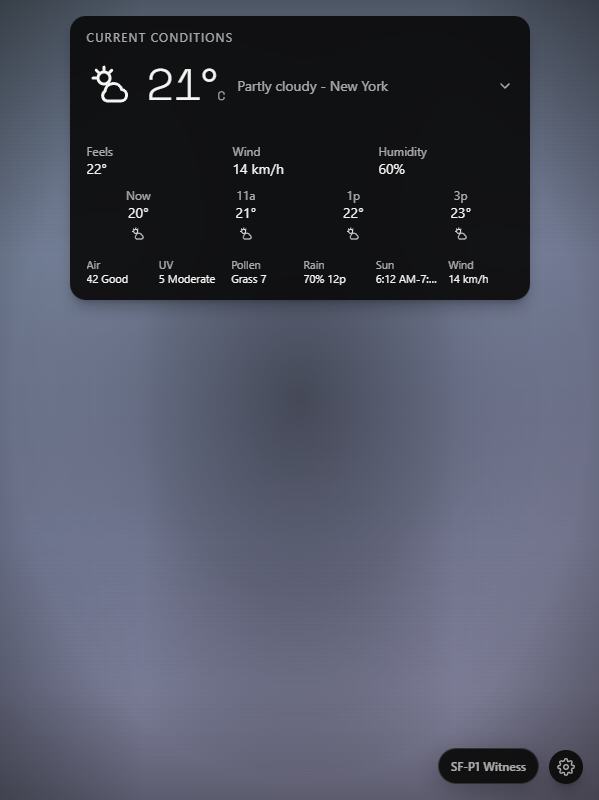
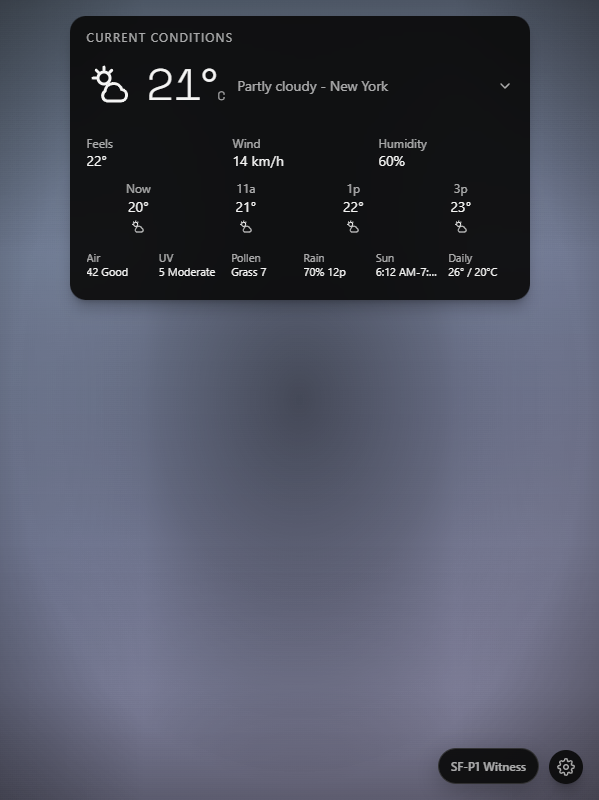
docs: verify sky and glance presentations

diff --git a/docs/superpowers/aurora-2/ROADMAP.md b/docs/superpowers/aurora-2/ROADMAP.md
@@ -206,11 +206,11 @@ The owner-approved authority is [`2026-08-17-aurora-named-layouts-live-canvas-de
 | Addition waves | Verified | Browser-native, Work, and At-a-glance waves are complete. On This Day, Public Holidays, Aurora & Kp, and NWS Weather alerts join the four browser-native widgets and Linear, Sentry, and Todoist under exact public/direct provider, cache-ownership, tier, Settings, privacy, and browser-evidence contracts. Stocks remain deferred. | [`BROWSER-NATIVE-WIDGETS-QA.md`](../reports/BROWSER-NATIVE-WIDGETS-QA.md); [`WORK-CONNECTORS-QA.md`](../reports/WORK-CONNECTORS-QA.md); [`AT-A-GLANCE-ADDITIONS-QA.md`](../reports/AT-A-GLANCE-ADDITIONS-QA.md); [`2026-08-22-aurora-at-a-glance-additions-implementation.md`](../plans/2026-08-22-aurora-at-a-glance-additions-implementation.md) |
 | Two-axis docks | Verified with 5px owner trial | Every top/bottom dock member owns independent safe X/Y coordinates inside a transparent responsive band. The original absent-Y baseline remains immutable evidence for DY-P1. The owner-approved refinement moves the parent bands to 5px from every viewport edge while preserving storage absence, order, containment, and internal legacy margins. Exact 600x800 and 1408x445 Chromium witnesses passed with boot-stable layouts bytes and zero writes or failures. | [`2026-08-22-aurora-two-axis-dock-placement-implementation.md`](../plans/2026-08-22-aurora-two-axis-dock-placement-implementation.md); [`2026-08-22-aurora-two-axis-dock-placement-design.md`](../specs/2026-08-22-aurora-two-axis-dock-placement-design.md); [`TWO-AXIS-DOCKS-QA.md`](../reports/TWO-AXIS-DOCKS-QA.md); [`DOCK-INSET-REFINEMENT-QA.md`](../reports/DOCK-INSET-REFINEMENT-QA.md); `1e9a1af` |
 | Shared widget frames | SF-P1 verified and owner accepted; SF-P2 owner visual gate | Exact Compact 216x132, Standard 320x200, and Full 460x284 frames; authored per-widget compositions; fixed stack footprint; intrinsic stack faces; scalable catalog and admission gate. SF-P2 migrated the remaining 25 Framed identities, and its one fix/rereview cycle is Ready with 189/189 exact-build Chromium captures and no open Critical or Important issue. SF-P3 remains blocked until the owner accepts or refines the catalog. | [`2026-08-22-aurora-shared-widget-frames-and-stack-composition-design.md`](../specs/2026-08-22-aurora-shared-widget-frames-and-stack-composition-design.md); [`2026-08-22-aurora-sf-p1-frame-foundation-reference-pair.md`](../plans/2026-08-22-aurora-sf-p1-frame-foundation-reference-pair.md); [`2026-08-23-aurora-sf-p2-framed-catalog-migration.md`](../plans/2026-08-23-aurora-sf-p2-framed-catalog-migration.md); [`SHARED-FRAMES-SF-P1-QA.md`](../reports/SHARED-FRAMES-SF-P1-QA.md); [`SHARED-FRAMES-SF-P2-QA.md`](../reports/SHARED-FRAMES-SF-P2-QA.md) |
-| Complete widget redesign | Production active, Task 4 verified | The owner-approved 34-target catalog governs all 36 source identities. Unified Calendar now composes agenda, complete Month, and optional Public Holidays through explicit per-layout consolidation with exact tier geometry and separate source authorities. Weather and sky compositions are the current packet. | [`2026-08-23-aurora-complete-widget-redesign-production.md`](../plans/2026-08-23-aurora-complete-widget-redesign-production.md); [`2026-08-23-aurora-unified-calendar-widget-design.md`](../specs/2026-08-23-aurora-unified-calendar-widget-design.md); [`CATALOG.md`](../catalog/widget-redesign/v1/CATALOG.md) |
+| Complete widget redesign | Production active, Task 5 verified | The owner-approved 34-target catalog governs all 36 source identities. Unified Calendar is consolidated explicitly, and Weather, Sun, Moon, On This Day, and Aurora & Kp now expose their approved information and visualization signatures without changing data ownership. Work and service connectors are the current packet. | [`2026-08-23-aurora-complete-widget-redesign-production.md`](../plans/2026-08-23-aurora-complete-widget-redesign-production.md); [`2026-08-23-aurora-unified-calendar-widget-design.md`](../specs/2026-08-23-aurora-unified-calendar-widget-design.md); [`CATALOG.md`](../catalog/widget-redesign/v1/CATALOG.md) |
 
 The first approved continuous sequence and DY-P1 are complete. Flow, widget stacks, Weather enrichment, the Expansion platform, browser-native widgets, Work connectors, At-a-glance additions, and two-axis docks are verified. The full redesign catalog is owner approved after Quick Links, Greeting, and Calendar corrections. Production Task 1 has a green focused gate, and the remaining widget-family packets are active. Future catalog candidates remain researched backlog; stocks remain deferred.
 
-- **Weather and sky production window:** Keep Weather, Sun, Moon, On This Day, and Aurora & Kp under their existing cache and retry owners while making each approved tier visibly useful. Weather stays movable to every corner and only its expansion is contained.
+- **Work and service production window:** Author the approved GitHub, GitLab, Jira, Linear, Sentry, Todoist, Vercel, Status, Home Assistant, RSS, and Crypto compositions from existing normalized data. Preserve provider requests, credentials, selections, permissions, cache ownership, and mutations.
 
 ## Program definition of done
 

diff --git a/docs/superpowers/aurora-2/DECISIONS.md b/docs/superpowers/aurora-2/DECISIONS.md
@@ -695,3 +695,12 @@ ADR-lite entries record settled implementation direction without replaying conve
 - **Rejected:** Automatic placement selection; silent boot migration; compressed Compact or Docked month grids; an internal month scrollbar; provider or country copy in the primary face; one merged source cache; view changes that write `layouts`; deleting holiday country or cache when inclusion is off; or any Store action.
 - **Consequence:** Docked and Compact remain agenda-led. Standard owns a labelled Agenda/Month control with a complete 42-cell table and named nearest holiday. Full renders Month and Agenda together. Layout-local view and inclusion live in the Calendar inspector; global week start lives under Calendar settings. Weather and sky compositions are next.
 - **Verification:** Observed RED covered source ordering and deduplication, 42-cell week origins, atomic consolidation, stale rejection, preference-only writes, exact tier faces, inspector authority, and global week start. The focused gate passed 27 files / 757 tests, TypeScript, and diff hygiene. Exact production build `8c8db65c9ee2359e87bf7a9c73c9540ea9c73a34` transformed 253 modules. A measured Chromium pass caught and closed one Full flex/grid containment defect, then proved exact 216x132, 320x200, and 460x284 geometry, 42-cell Standard and Full tables, no internal overflow, unchanged layouts during ordinary view switching, and zero runtime or request failures. The protected checkout and Chrome Web Store remained untouched.
+
+## A2-D079 - Put the complete sky briefing in the selected frame
+
+- **Date:** 2026-08-23
+- **Decision:** Keep Weather, Sun, Moon, On This Day, and Aurora & Kp under their existing data and retry owners while making their selected tier answer its primary question without decorative filler. Full Weather owns visible hourly, environmental, rain, sun, wind, and daily context; its existing disclosure remains the deeper source and alert surface. On This Day uses distinct year markers and a truthful Read more destination. Aurora & Kp makes proportional forecast bars the primary visualization. Sun and Moon retain distinct identities, and Docked remains smaller than Compact.
+- **Reason:** The existing widgets were correct but some approved information stayed hidden behind disclosure or read as an undifferentiated list. The selected frame should provide useful hierarchy at a glance while preserving the background, exact shared geometry, and trusted provider path.
+- **Rejected:** A separate AQI, UV, or pollen widget; replacing Weather's details panel; auto-moving Weather away from corners; an internal framed scrollbar; duplicate request or cache owners; repeating the same year until the On This Day row budget is exhausted; treating Kp as an aurora visibility probability; or any Store action.
+- **Consequence:** Work and service connector compositions are next. Weather request identities, NWS enrichment, cache retry, civil-time behavior, units, location selection, placement, and expansion anchoring remain unchanged. Connector scopes, permissions, credentials, storage schema, protected checkout, and Store authority remain unchanged.
+- **Verification:** Observed RED covered the missing Full Weather briefing, Standard daily context, distinct Sun glyphs, proportional Kp forecast meters, distinct On This Day years, and truthful destination copy. The focused gate passed 19 files / 266 tests plus TypeScript and diff hygiene. Exact production build `7136edc0c2b33abf1c5a578639f3c81f2b77f1c5` transformed 253 modules. The stabilized 36-scenario Chromium matrix covered exact tiers, ready and non-ready states, dark, light, saturated, and bright-pink panels, proportional narrow Full frames, Weather plus On This Day stacks and disclosure, and both location-selection tiers. It recorded 26 audited requests, 7 expected storage-write batches, and zero clipping, internal scrolling, runtime errors, failed requests, or unexpected requests. The protected checkout remained at `eb1354b6a5b041fb6d494655c3dae1862572bc51`; Chrome Web Store state remained untouched.

diff --git a/docs/superpowers/aurora-2/STATUS.md b/docs/superpowers/aurora-2/STATUS.md
@@ -4,8 +4,10 @@
 **Branch:** `feat/aurora-2-observatory`<br>
 **Worktree:** `D:\DEV\Chrome plugin-aurora-2`<br>
 **Current wave:** Complete widget redesign production<br>
-**Last verified packet:** `Production Task 4 Unified Calendar` - 27 focused files / 757 tests, TypeScript, exact 253-module build, and measured Chromium proof for Compact, Standard Month, and Full with zero clipping, internal scrolling, runtime errors, or failed requests<br>
-**Current packet:** Production Task 5, Weather and sky compositions
+**Last verified packet:** `Production Task 5 Weather and sky` - 19 focused files / 266 tests, TypeScript, exact 253-module build, and 36-scenario real Chromium proof with zero clipping, internal scrolling, runtime errors, failed requests, or unexpected requests<br>
+**Current packet:** Production Task 6, work and service connector compositions
+
+- **Complete widget redesign production Task 5 (2026-08-23, VERIFIED):** Weather, Sun, Moon, On This Day, and Aurora & Kp retain their existing cache, retry, civil-time, permission, and provider owners while gaining their approved information signatures. Full Weather now exposes hourly conditions plus Air, UV, Pollen, Rain, Sun, and Daily context without requiring disclosure; Standard retains current conditions plus High/Low context, and Compact and Docked remain concise. Sun uses distinct rise and set glyphs. Aurora & Kp uses proportional forecast bars while preserving explicit stale copy. On This Day keeps one heading and date, selects distinct year markers within its row budget, and labels the trusted destination Read more on Wikipedia. Observed RED covered each missing signature. The focused production gate passed 19 files / 266 tests plus TypeScript and diff hygiene. Exact build `7136edc0c2b33abf1c5a578639f3c81f2b77f1c5` transformed 253 modules. The real Chromium matrix found and closed the 10px metadata floor, stale and narrow Full containment, a flex-shrunk Daily row, and a location-selection harness allowlist gap. The final 36/36 pass covered exact tiers, states, four panel colors, proportional narrow frames, Weather plus On This Day stacks, Weather disclosure, and location selection with 26 audited requests, 7 expected storage-write batches, and zero runtime, failed, or unexpected requests. The protected checkout and Chrome Web Store remain untouched.
 
 - **Complete widget redesign production Task 4 (2026-08-23, VERIFIED):** Calendar, Month, and Public Holidays now consolidate explicitly into canonical Calendar per named layout. Legacy placements remain unchanged until the user chooses a surviving placement and Save; Later and stale ownership write nothing, while Save atomically updates `layouts` and its companion preference. Docked and Compact are agenda-led, Standard owns the labelled Agenda/Month switch and complete 42-cell month, and Full renders roomy Month plus Agenda regions. The Standard month header and view control share the reclaimed top row, with the nearest holiday named in a separated footer below the grid. Layout-local Default view and Include public holidays live in the inspector; global week start lives under Calendar settings. The focused gate passed 27 files / 757 tests plus TypeScript and diff hygiene. Exact build `8c8db65c9ee2359e87bf7a9c73c9540ea9c73a34` transformed 253 modules. The bounded real-browser pass caught and fixed Full's flex-over-grid containment defect, then measured exact 216x132, 320x200, and 460x284 faces, 42 Standard and Full cells, zero overflow, presentation-only preference writes, and zero runtime or request failures. The production manifest, protected checkout, and Chrome Web Store state remain unchanged.
 

diff --git a/docs/superpowers/plans/2026-08-23-aurora-complete-widget-redesign-production.md b/docs/superpowers/plans/2026-08-23-aurora-complete-widget-redesign-production.md
@@ -397,19 +397,19 @@ git commit -m "feat: unify Calendar presentations"
 - Consumes: Existing caches, retry ownership, weather details panel, and Task 1 presentation context.
 - Produces: Approved visualization-led sky and glance faces.
 
-- [ ] **Step 1: Add RED tests for signature scale and row budgets**
+- [x] **Step 1: Add RED tests for signature scale and row budgets**
 
 Assert Full Weather contains hourly forecast, daily forecast, AQI, pollen, UV, precipitation timing, sun, and wind; Standard contains current plus daily context; Compact contains current conditions; Docked retains the full temperature scale in one 44px line. Assert On This Day renders its heading once, date once, bounded distinct years, and a truthful Read more action.
 
-- [ ] **Step 2: Run the five focused test files and observe RED**
+- [x] **Step 2: Run the five focused test files and observe RED**
 
 Run: `npx vitest run src/newtab/widgets/weather/WeatherWidget.test.tsx src/newtab/widgets/sun/SunWidget.test.tsx src/newtab/widgets/moon/MoonWidget.test.tsx src/newtab/widgets/glance/OnThisDayWidget.test.tsx src/newtab/widgets/glance/AuroraKpWidget.test.tsx`
 
-- [ ] **Step 3: Implement identity-specific faces without touching data owners**
+- [x] **Step 3: Implement identity-specific faces without touching data owners**
 
 Keep Weather movable to every corner and contain only its details expansion. Preserve cache retry, alert, civil-time, and unit behavior. Make Sun and Moon icons distinct; keep Docked smaller than Compact. Make Aurora & Kp's forecast visualization dominant and keep its stale state explicit.
 
-- [ ] **Step 4: Verify and commit**
+- [x] **Step 4: Verify and commit**
 
 Run the five widget families, weather hooks, weather anchor tests, TypeScript, production build, and Weather + On This Day mixed-stack Chromium capture.
 
